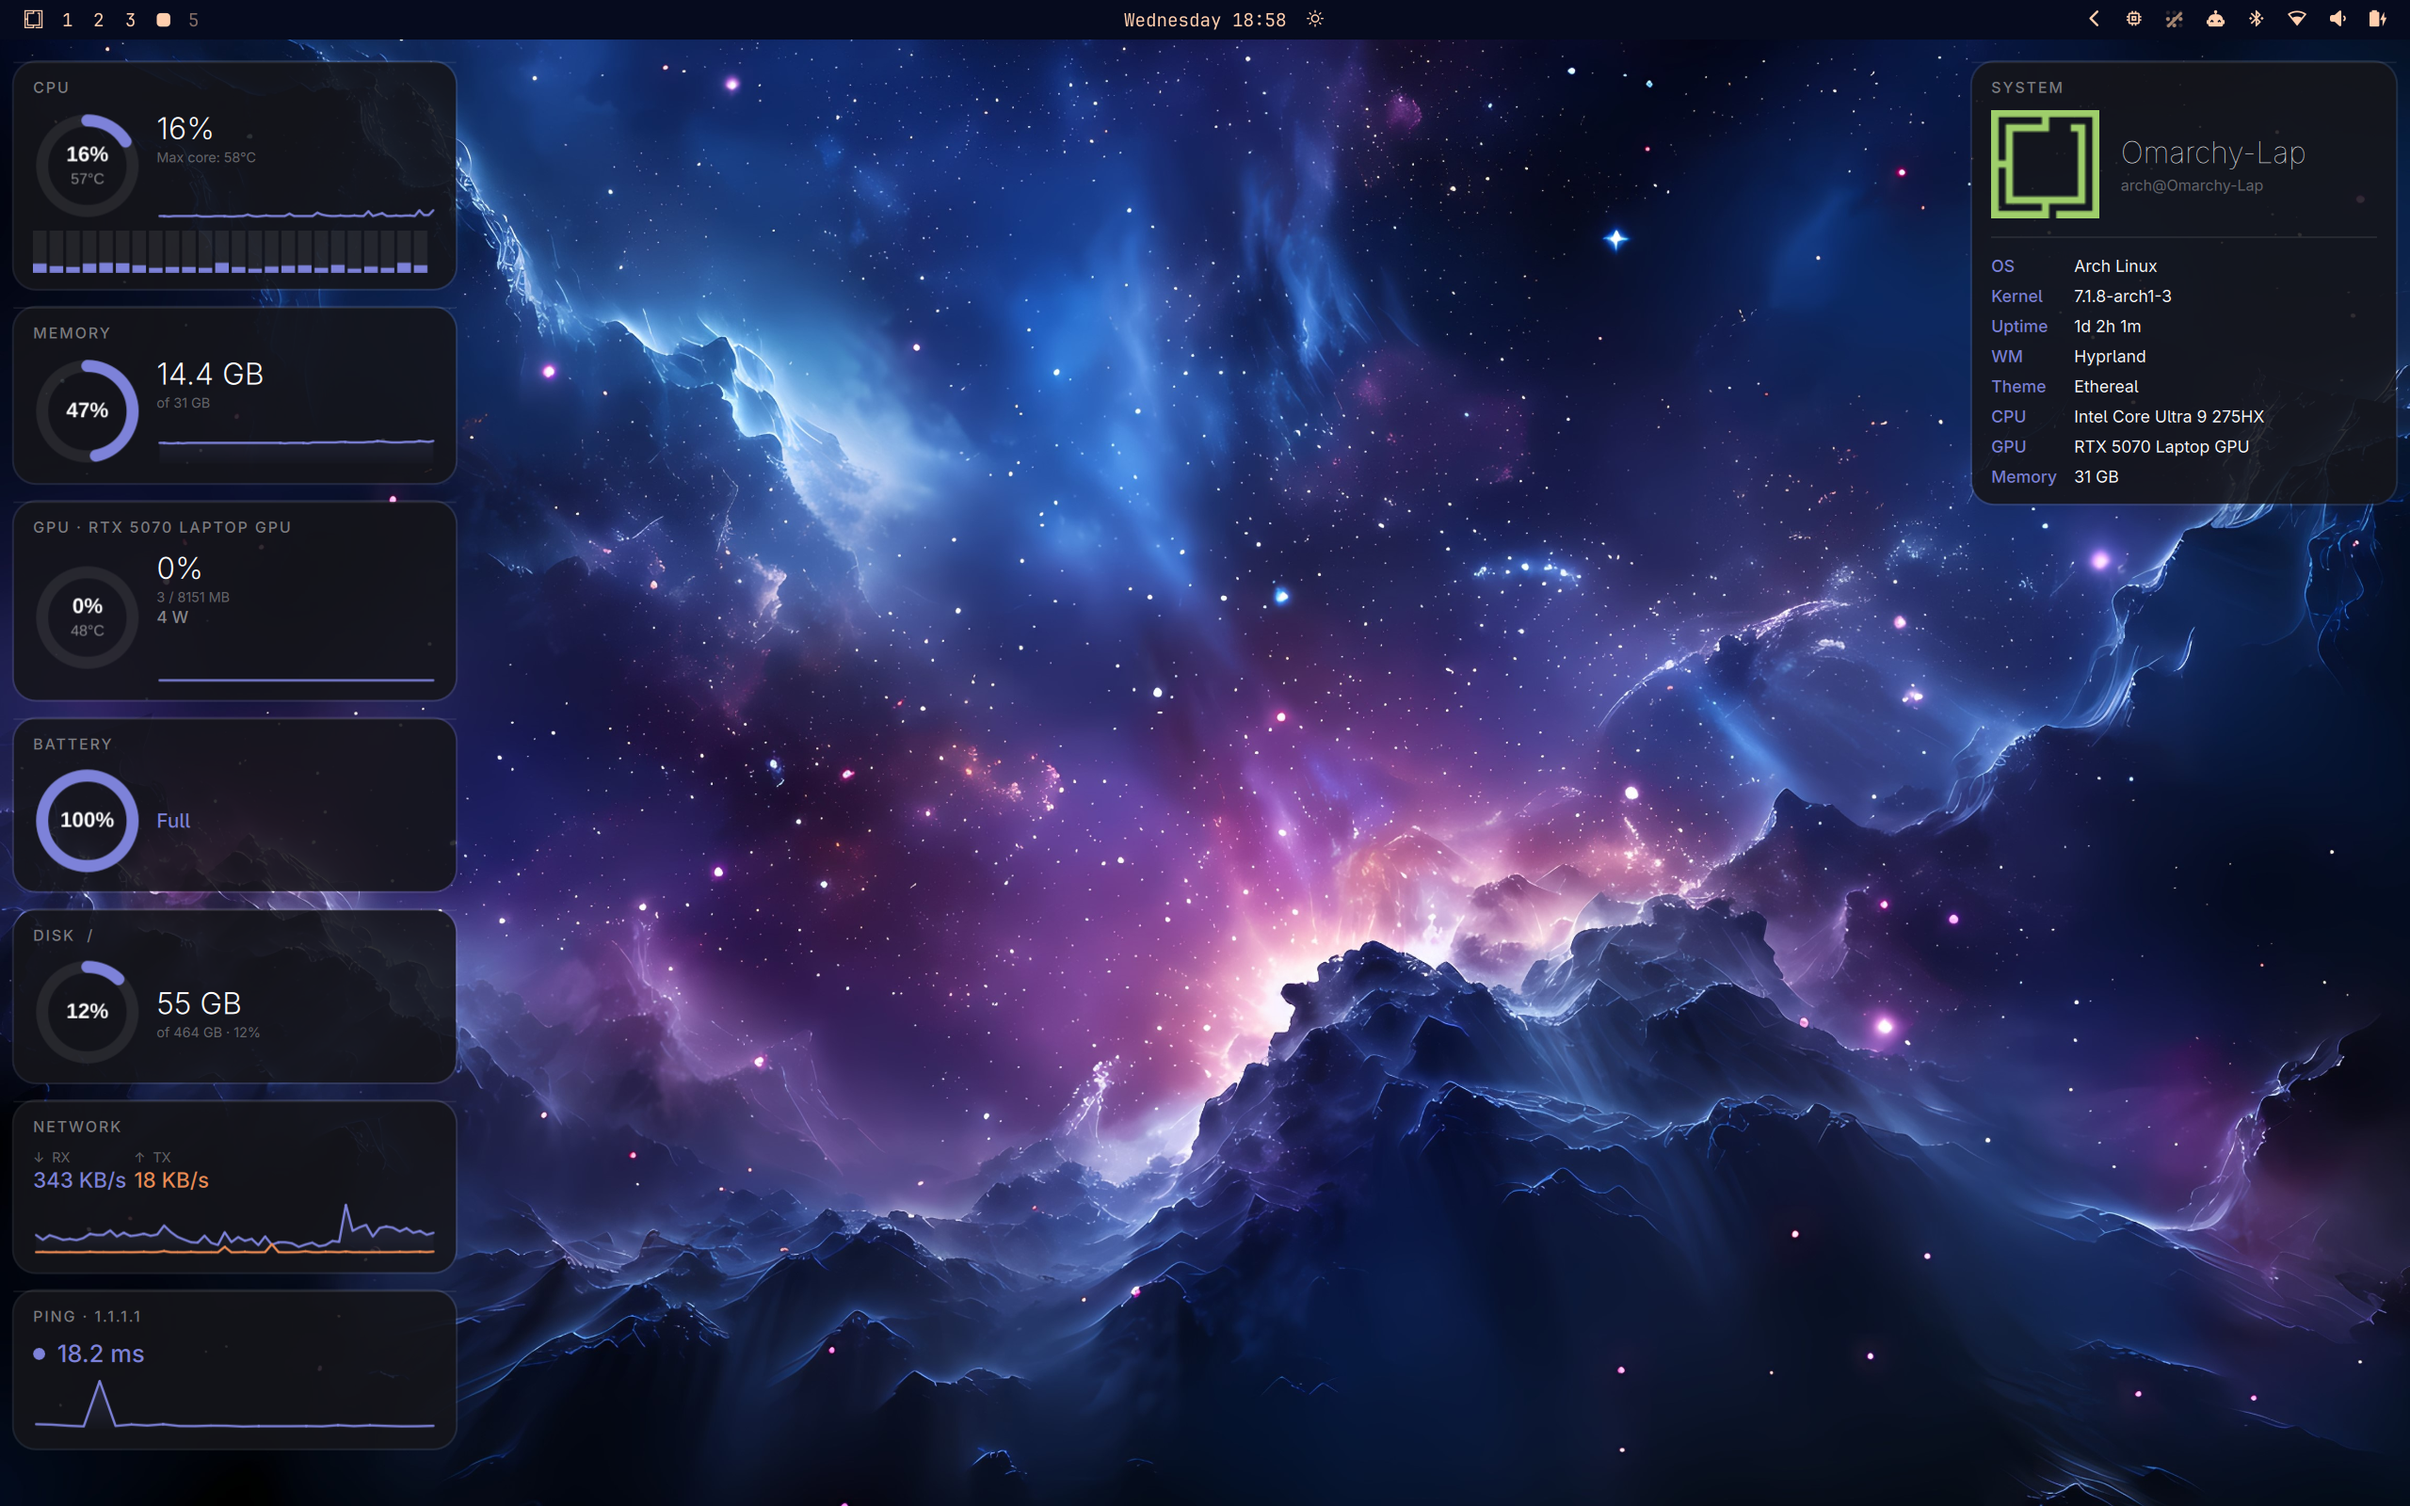
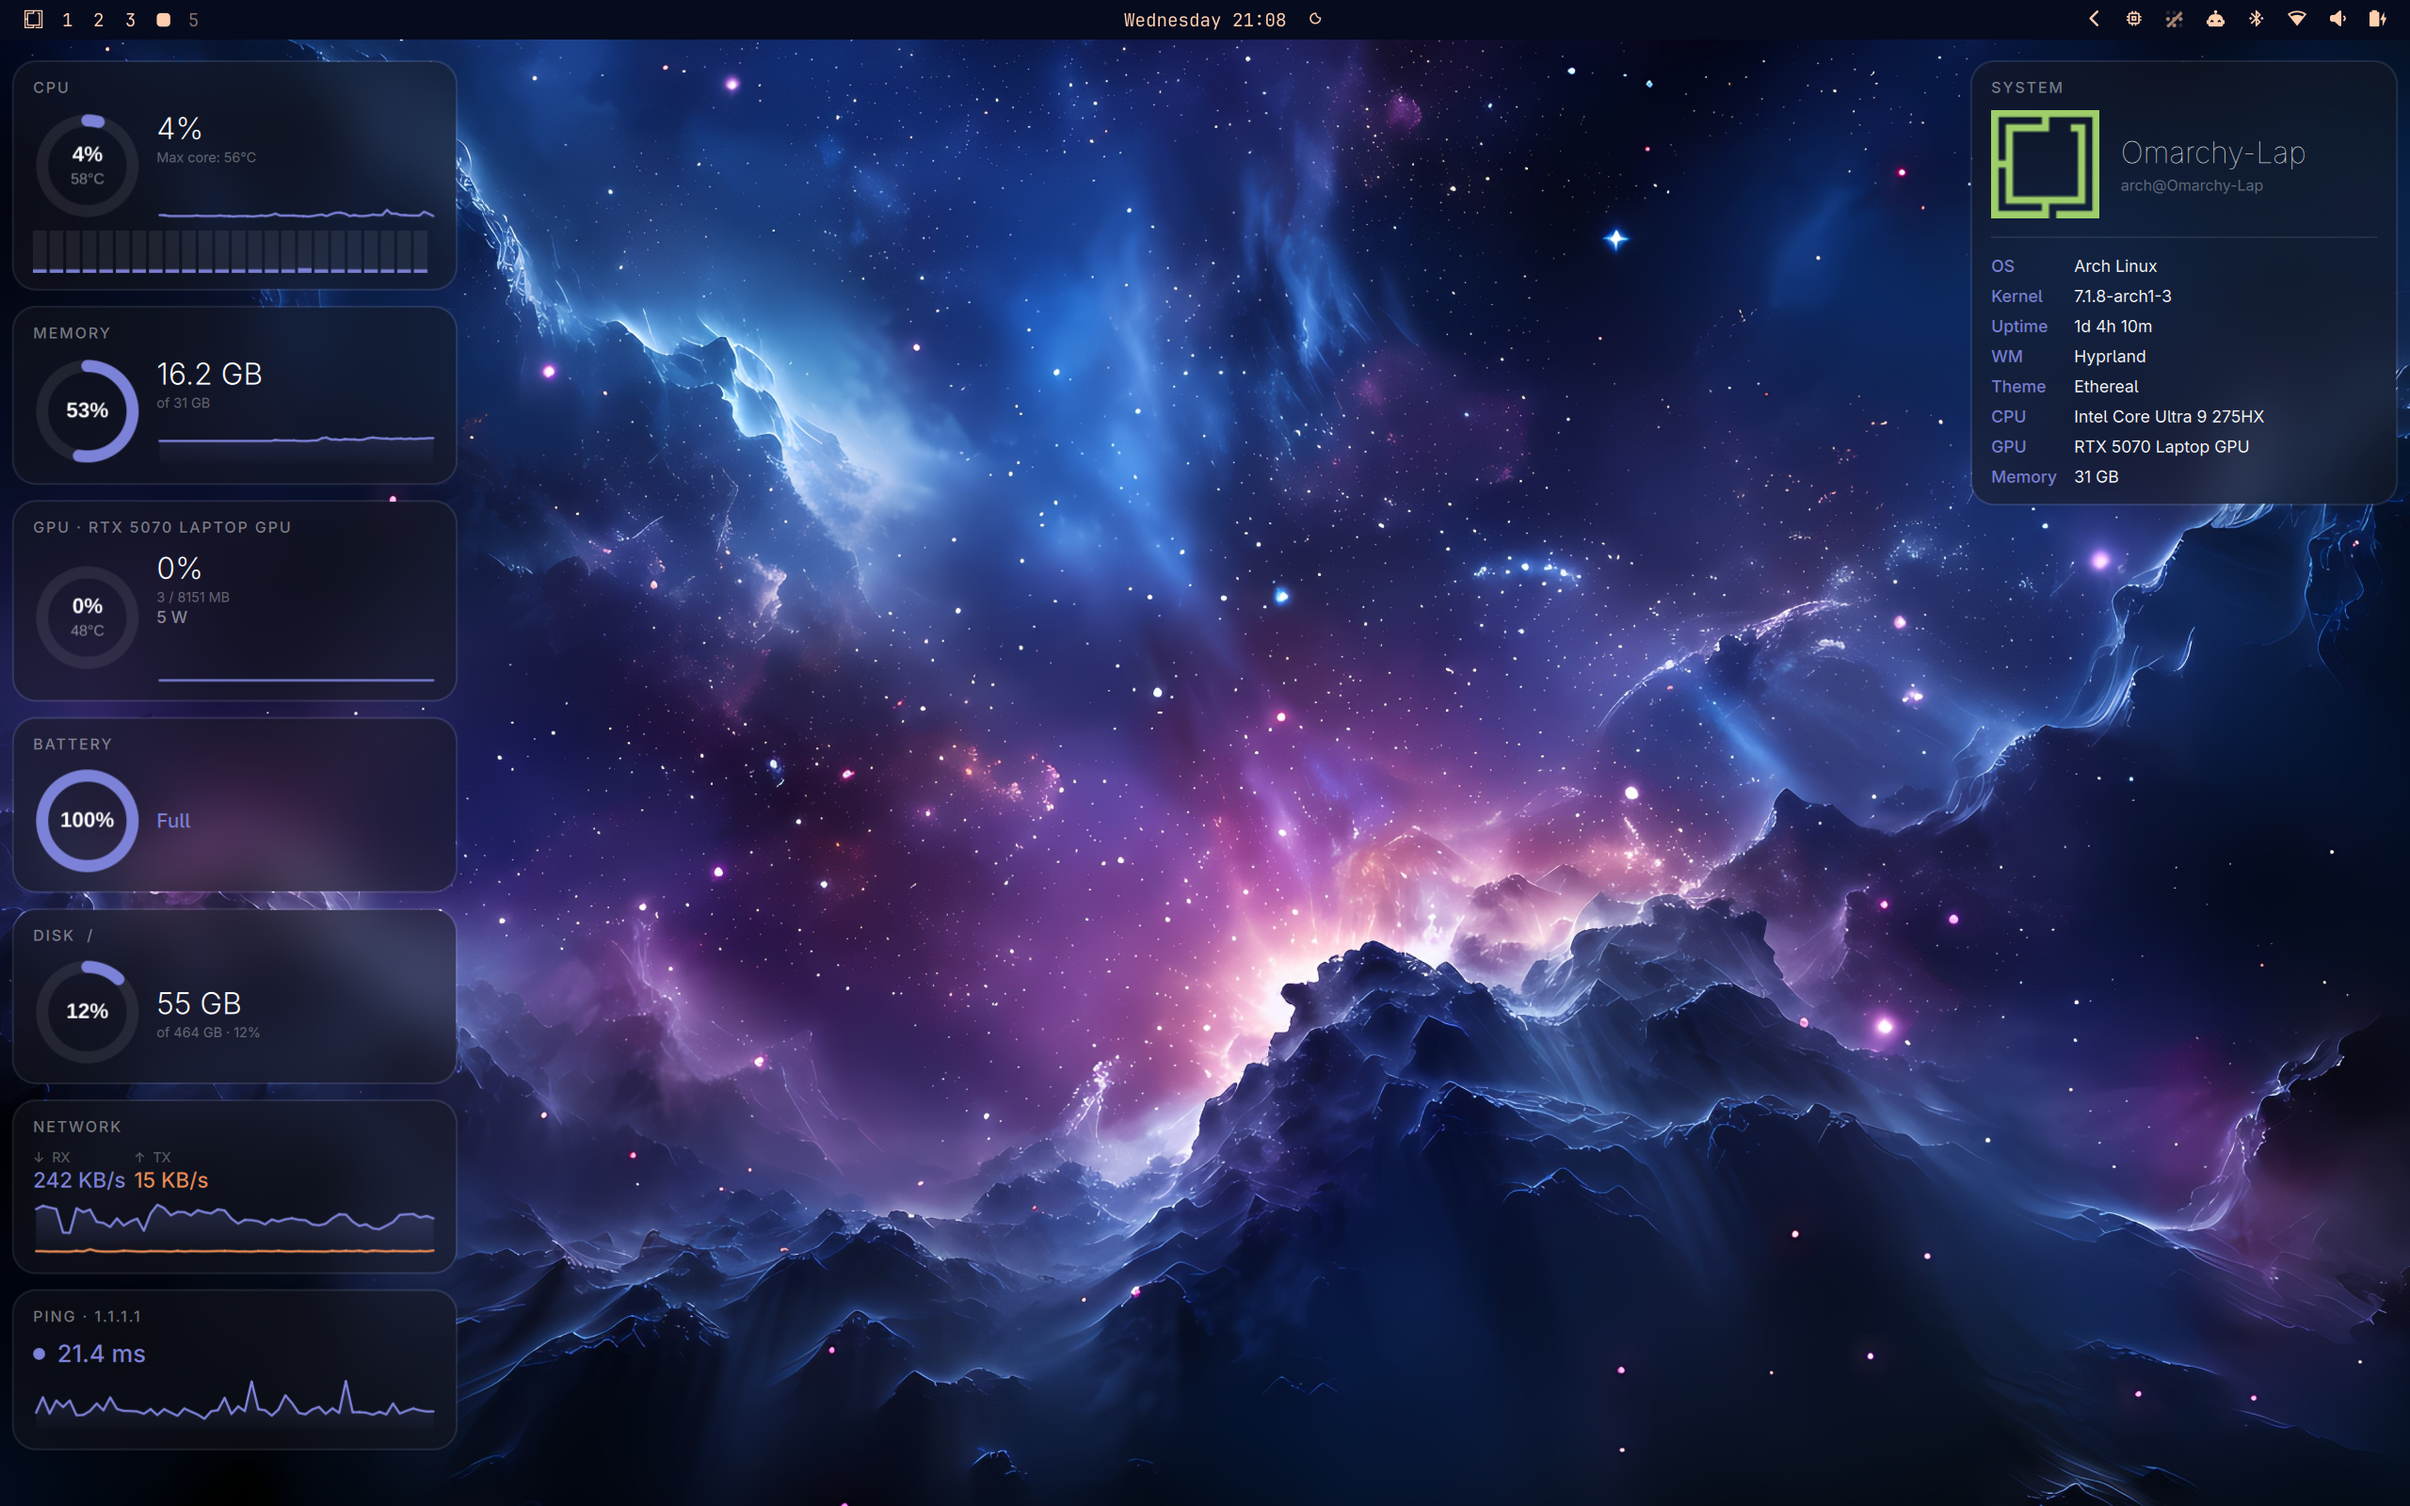
Add frosted-glass blur to dashboard cards

diff --git a/shell.qml b/shell.qml
@@ -74,6 +74,7 @@ Scope {
         implicitWidth:   312
 
         WlrLayershell.layer:         WlrLayer.Bottom
+        WlrLayershell.namespace:     "quickshell:dashboard"
         WlrLayershell.keyboardFocus: WlrKeyboardFocus.None
         exclusionMode:               ExclusionMode.Ignore
         color:                       "transparent"
@@ -468,6 +469,7 @@ Scope {
         implicitWidth:   300
 
         WlrLayershell.layer:         WlrLayer.Bottom
+        WlrLayershell.namespace:     "quickshell:dashboard"
         WlrLayershell.keyboardFocus: WlrKeyboardFocus.None
         exclusionMode:               ExclusionMode.Ignore
         color:                       "transparent"

diff --git a/StatCard.qml b/StatCard.qml
@@ -13,20 +13,9 @@ Item {
     Rectangle {
         anchors.fill: parent
         radius: 16
-        color: Qt.rgba(0.08, 0.08, 0.10, 0.88)
+        color: Qt.rgba(0.08, 0.08, 0.10, 0.5)
         border.color: Qt.rgba(1, 1, 1, 0.10)
         border.width: 1
-
-        // Top-edge shine (glass refraction effect)
-        Rectangle {
-            anchors {
-                top: parent.top; left: parent.left; right: parent.right
-                topMargin: 1; leftMargin: 1; rightMargin: 1
-            }
-            height: 1
-            color: Qt.rgba(1, 1, 1, 0.08)
-            radius: parent.radius
-        }
     }
 
     // Card label

diff --git a/README.md b/README.md
@@ -1,10 +1,9 @@
 # omarchy-dashboard
 
-A two-panel [Quickshell](https://quickshell.outfoxxed.me/) desktop widget for
-[Omarchy](https://omarchy.org) (Hyprland + Arch). A left panel with live
-system stats — CPU, memory, GPU, battery, disk, network, ping — and a right
-panel with neofetch-style system info, both styled as glass cards that
-follow your active Omarchy theme automatically, live, with no restart.
+A two-panel [Quickshell](https://quickshell.outfoxxed.me/) widget for
+[Omarchy](https://omarchy.org) (Hyprland + Arch): live system stats on the
+left, neofetch-style info on the right. Glass cards that follow your Omarchy
+theme live, no restart needed.
 
 |                        |                        |                        |
 | ---------------------- | ---------------------- | ---------------------- |
@@ -13,85 +12,100 @@ follow your active Omarchy theme automatically, live, with no restart.
 
 ## Features
 
-- Per-core CPU bars, package/core temps, and a rolling sparkline
+- Per-core CPU bars, package/core temps, rolling sparkline
 - Memory, disk, and NVIDIA GPU usage (utilization, VRAM, temp, power draw)
-- Battery status with time-to-full/empty (via UPower)
-- Network throughput (RX/TX) and ping to a target host, both with sparklines
+- Battery status with time-to-full/empty (UPower)
+- Network throughput (RX/TX) and ping, both with sparklines
 - Neofetch-style system info panel (host, kernel, uptime, WM, theme, CPU, GPU, memory)
-- Live theme sync: colors update automatically when you switch your Omarchy theme, no restart needed
+- Live theme sync with Omarchy
 
 ## Dependencies
 
 | Dependency | Used for | Arch package |
 | --- | --- | --- |
-| [Quickshell](https://quickshell.outfoxxed.me/) | Runs the shell itself | `quickshell-git` (AUR) |
-| Hyprland + [Omarchy](https://omarchy.org) | `omarchy-theme-color` and `~/.local/state/omarchy/current` for live theming | ships with Omarchy |
-| `nvidia-smi` | GPU stats — NVIDIA only, see note below | `nvidia-utils` |
-| `lm-sensors` | CPU package/core temperatures | `lm_sensors` |
-| `inotify-tools` | Live theme + state file watching | `inotify-tools` |
+| [Quickshell](https://quickshell.outfoxxed.me/) | Runs the shell | `quickshell-git` (AUR) |
+| Hyprland + [Omarchy](https://omarchy.org) | Live theming | ships with Omarchy |
+| `nvidia-smi` | GPU stats (NVIDIA only) | `nvidia-utils` |
+| `lm-sensors` | CPU temps | `lm_sensors` |
+| `inotify-tools` | Live theme/state watching | `inotify-tools` |
 | coreutils | `ping`, `df`, `awk`, `hostname`, `uname` | already on your system |
 
-If `sensors` has never been configured, run `sudo sensors-detect` once (accept the
-defaults) or the temperature tiles will just stay blank.
+Run `sudo sensors-detect` once if you've never configured `sensors`, or temp
+tiles stay blank.
 
 ## Setup
 
-1. **Clone into your Quickshell config directory**, keeping the folder name
-   `dashboard` — Quickshell uses the folder name as the config name:
+1. Clone into your Quickshell config dir (folder name must stay `dashboard`):
 
    ```sh
    git clone https://github.com/D3m0nZOnFire/omarchy-dashboard ~/.config/quickshell/dashboard
    ```
 
-2. **Run it**:
+2. Run it in the foreground first to catch errors:
 
    ```sh
    qs -c dashboard
    ```
 
-   That starts it in the foreground so you can see any QML errors. Once
-   you're happy with it, launch it detached with `qs -c dashboard -d`, or
-   add that to your Hyprland `exec-once` so it starts with your session:
+   Once it looks right, run detached (`qs -c dashboard -d`) or add to
+   Hyprland's `exec-once`.
 
-   ```
-   exec-once = qs -c dashboard
-   ```
-
-   (If you're replacing Omarchy's default top bar/shell, make sure nothing
-   else is already launching a Quickshell config named `default` for the
-   same screen, or you'll get overlapping bars.)
-
-3. **Point it at your machine** — edit [`Config.qml`](Config.qml), the one
-   file with every value you're expected to change:
+3. Edit [`Config.qml`](Config.qml) for your machine:
 
    | Property | What it does | Default |
    | --- | --- | --- |
-   | `screenWidth`, `screenHeight` | Resolution used to pick which monitor the panels attach to, for multi-monitor setups | `1600` × `1000` |
-   | `pingHost` | Host pinged for the network latency tile | `1.1.1.1` |
+   | `screenWidth`, `screenHeight` | Which monitor to attach to | `1600` × `1000` |
+   | `pingHost` | Ping target for the latency tile | `1.1.1.1` |
 
-   Find your monitor's resolution with `hyprctl monitors` if you're not sure.
-   On a single-monitor setup you don't need to touch this — the code falls
-   back to your only screen automatically.
+   Single monitor? Leave it — it falls back automatically.
 
-4. **NVIDIA-only note**: GPU stats come from `nvidia-smi`
-   (`SystemMetrics.qml`, `gpuProc` / `_parseGpu()`). On AMD or Intel graphics
-   there's nothing to configure — you'll need to swap that process for
-   something like `radeontop` or an `intel_gpu_top`/sysfs read and adjust
-   the parser to match its output.
+4. **NVIDIA only**: GPU stats come from `nvidia-smi` (`SystemMetrics.qml`).
+   On AMD/Intel, swap in `radeontop` or `intel_gpu_top` and adjust the parser.
 
-5. **Reload after changes**: Quickshell hot-reloads QML edits automatically
-   while `qs -c dashboard` is running — no restart needed while you tweak
-   colors, sizes, or layout.
+5. **Enable Hyprland background blur** — required. The cards are translucent
+   by design; without blur they're just washed-out gray boxes.
+
+   Omarchy (`~/.config/hypr/looknfeel.lua`):
+
+   ```lua
+   hl.config({
+     decoration = { blur = { enabled = true, size = 6, passes = 3 } },
+   })
+
+   hl.layer_rule({
+     match = { namespace = "quickshell:dashboard" },
+     blur = true,
+     xray = true,
+     ignore_alpha = 0.2,
+   })
+   ```
+
+   Vanilla Hyprland (`hyprland.conf`):
+
+   ```
+   decoration {
+     blur { enabled = true; size = 6; passes = 3 }
+   }
+
+   layerrule = blur, quickshell:dashboard
+   layerrule = xray, quickshell:dashboard
+   layerrule = ignorealpha 0.2, quickshell:dashboard
+   ```
+
+   Then `hyprctl reload`. (`ignore_alpha` skips blurring the fully
+   transparent gaps between cards — drop it if you want those blurred too.)
+
+QML edits hot-reload while `qs -c dashboard` is running — no restart needed.
 
 ## Troubleshooting
 
-- **Blank/zero tiles**: check the relevant command works standalone in your
-  shell first (`nvidia-smi`, `sensors`, `ping -c1 1.1.1.1`, `df -k /`) —
-  most tile data comes straight from these.
-- **Theme doesn't update on switch**: confirm `inotifywait` is installed and
-  that `omarchy-theme-color --all` prints a palette when run manually.
-- **Panels on the wrong monitor**: double check `screenWidth`/`screenHeight`
-  in `Config.qml` against `hyprctl monitors`.
+- **Blank/zero tiles**: test the underlying command directly (`nvidia-smi`,
+  `sensors`, `ping -c1 1.1.1.1`, `df -k /`).
+- **Theme doesn't update**: check `inotifywait` is installed and
+  `omarchy-theme-color --all` works.
+- **Wrong monitor**: check `screenWidth`/`screenHeight` against `hyprctl monitors`.
+- **Flat gray cards, no blur**: step 5 not done, or reload didn't take —
+  check `hyprctl getoption decoration:blur:enabled`.
 
 ## License
 
